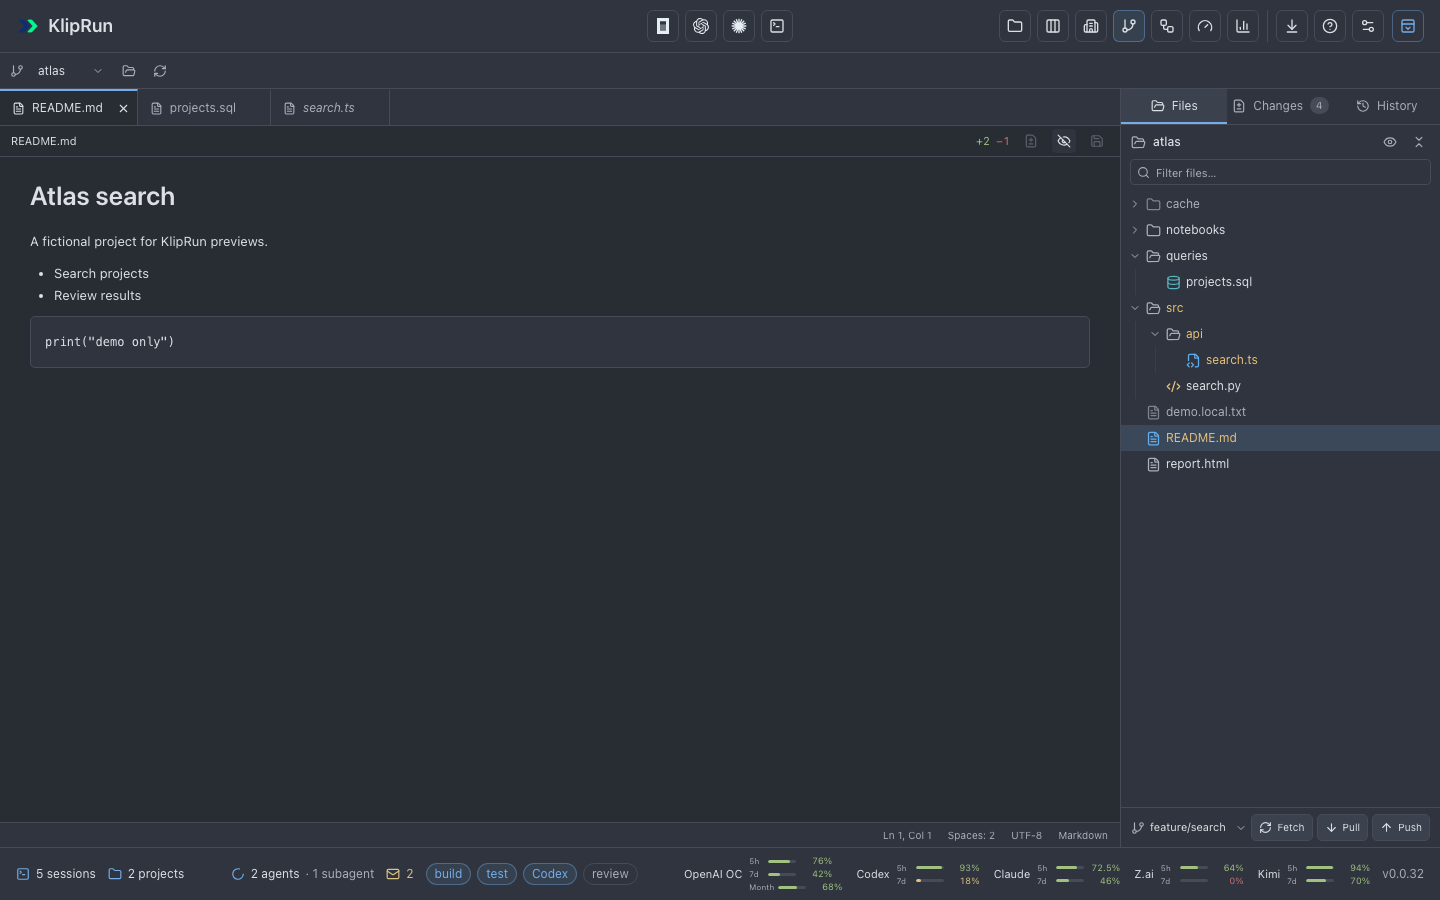
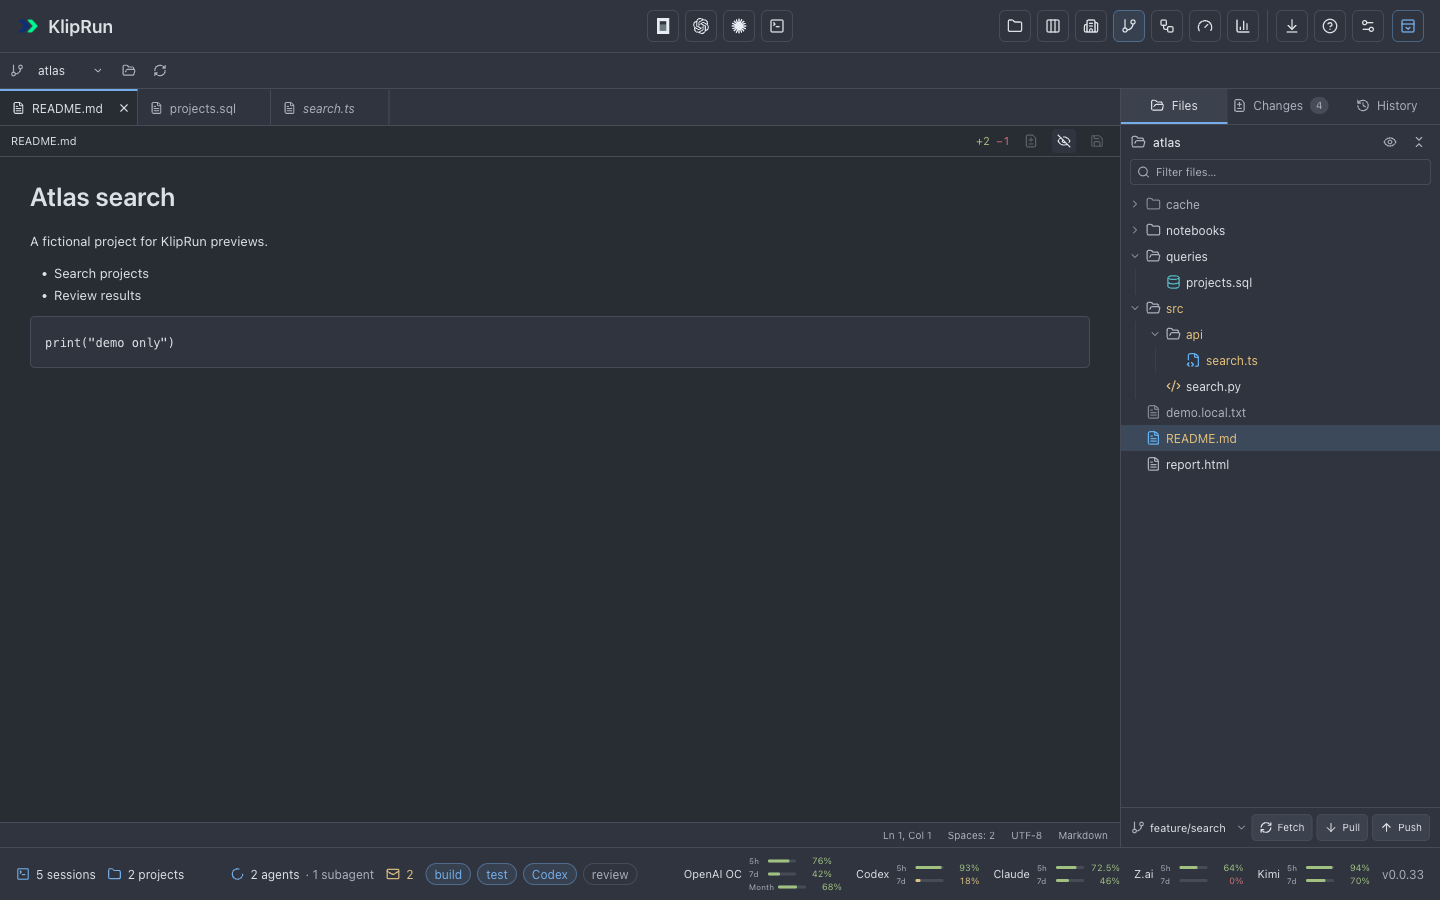
release/0.0.33: Подготовить версию и обновить скриншоты

diff --git a/docs/screenshots/capture-all.js b/docs/screenshots/capture-all.js
@@ -10,7 +10,7 @@ async (page, directory = "docs/screenshots", base = "http://127.0.0.1:18796") =>
     await page.goto(`${base}${path}`);
     if (!path.startsWith("/__demo/")) {
       await page.locator('[data-testid="version"]').waitFor();
-      if ((await page.locator('[data-testid="version"]').innerText()) !== "v0.0.32") throw new Error("Build the 0.0.32 client before capturing.");
+      if ((await page.locator('[data-testid="version"]').innerText()) !== "v0.0.33") throw new Error("Build the 0.0.33 client before capturing.");
     }
   }
   async function save(name) {

diff --git a/docs/screenshots/README.md b/docs/screenshots/README.md
@@ -1,10 +1,10 @@
 # Demo screenshots
 
-All twenty-one current screenshots were captured from **KlipRun Desktop 0.0.32** on **2026-10-21**, using Graphite. The original palette is named Midnight. Session IDs, titles, project paths, models, priority flags, Git metadata, quotas, and usage totals come only from [`mock-api.json`](mock-api.json). The preview fixes the clock to the fixture’s `board.generated_at` (2026-10-14), supplies a stub desktop bridge, and disables Office motion. No live engine, user session store, credentials, quota API, or agent process is used.
+All twenty-one current screenshots were captured from **KlipRun Desktop 0.0.33** on **2026-10-22**, using Graphite. The original palette is named Midnight. Session IDs, titles, project paths, models, priority markers, Git metadata, quotas, and usage totals come only from [`mock-api.json`](mock-api.json). The preview fixes the clock to the fixture’s `board.generated_at` (2026-10-14), supplies a stub desktop bridge, and disables Office motion. No live engine, user session store, credentials, quota API, or agent process is used.
 
 | File | Size | Example shown |
 | --- | --- | --- |
-| [`kanban.png`](kanban.png) | 1440 × 900 | Kanban columns, nested subagent, and synthetic Critical/Medium/Low flags |
+| [`kanban.png`](kanban.png) | 1440 × 900 | Kanban columns, nested subagent, and synthetic Question, Urgent, Warning, Blocked and Low markers |
 | [`kanban-details.png`](kanban-details.png) | 1440 × 900 | Selected Implement search API session and the default Agents T details tab |
 | [`sessions.png`](sessions.png) | 1440 × 900 | All sessions with project assignments, favorites, metrics, and No project |
 | [`session-groups.png`](session-groups.png) | 1440 × 900 | Aurora with Research (2), Work (1), and Uncategorized (1) |
@@ -143,3 +143,8 @@ in `git-workspace`, lazily loaded folders in `git-notebook`, and the default Fil
 `git-wrapping`. Visual HTML editing, the memory checks for 40 MB reports and middle-click
 closing were verified in Chromium and WebKit against disposable repositories; review images
 stay in `/private/tmp`.
+
+The 0.0.33 refresh recaptures all 21 gallery images with the same fixture-only callbacks.
+The Kanban screenshot shows the new per-card Question, Urgent, Warning and Blocked markers;
+all captures use only `mock-api.json` and make zero external requests. `scripts/priority-menu.test.js`
+checks the custom marker menu, selection, clearing and all available options.

diff --git a/README.md b/README.md
@@ -9,7 +9,12 @@ A macOS app for OpenCode, Codex, and Claude Code sessions: a Kanban board, embed
 ![Kanban with the embedded terminal on the left and session details on the right](docs/screenshots/desktop-terminal.png)
 
 Show or hide the embedded terminal with **⌘J**; click a session card to open its details.
+On Kanban, **Hide details** tucks the panel to the right without changing the
+selected session, and **Show details** brings it back. **Close details** clears
+the selection.
 Kanban cards use neutral outlines; column headings and card icons show their status.
+Choose Critical, Medium, Low, Question (?), Warning (!), Urgent (⚡) or Blocked (⛔)
+from a themed per-card priority menu. **No priority** clears the marker.
 
 Click **Show labels** at the right edge of the top toolbar to expand it: agent
 and utility buttons show their names on the first row, and workspace views move
@@ -35,7 +40,7 @@ use **Kanban** in this toolbar to return to the board.
 
 Requires **Apple Silicon and macOS 13+**.
 
-1. Download `KlipRun-0.0.32-macos-arm64.zip` from the [latest release](https://github.com/klipbn/kliprun_desktop/releases/latest).
+1. Download `KlipRun-0.0.33-macos-arm64.zip` from the [latest release](https://github.com/klipbn/kliprun_desktop/releases/latest).
 2. Unzip and move `KlipRun.app` to **Applications**. Quit KlipRun before replacing an older version.
 3. Open the app. If macOS blocks it, use **System Settings → Privacy & Security → Open Anyway**. The build is locally signed and not notarized.
 

diff --git a/CHANGELOG.md b/CHANGELOG.md
@@ -4,6 +4,13 @@ Notable changes to KlipRun Desktop are recorded here. Versions use [Semantic Ver
 
 ## [Unreleased]
 
+## [0.0.33] - 2026-10-22
+
+### Added
+
+- Hide the Kanban session details panel to the right and reopen it for the current selection without clearing the selected session. Remove the decorative chevron before the session title.
+- Replace native Kanban priority selects with a themed menu. Keep Critical, Medium and Low, and add Question, Warning, Urgent and Blocked markers; persist selections in the desktop app.
+
 ## [0.0.32] - 2026-10-21
 
 ### Added
